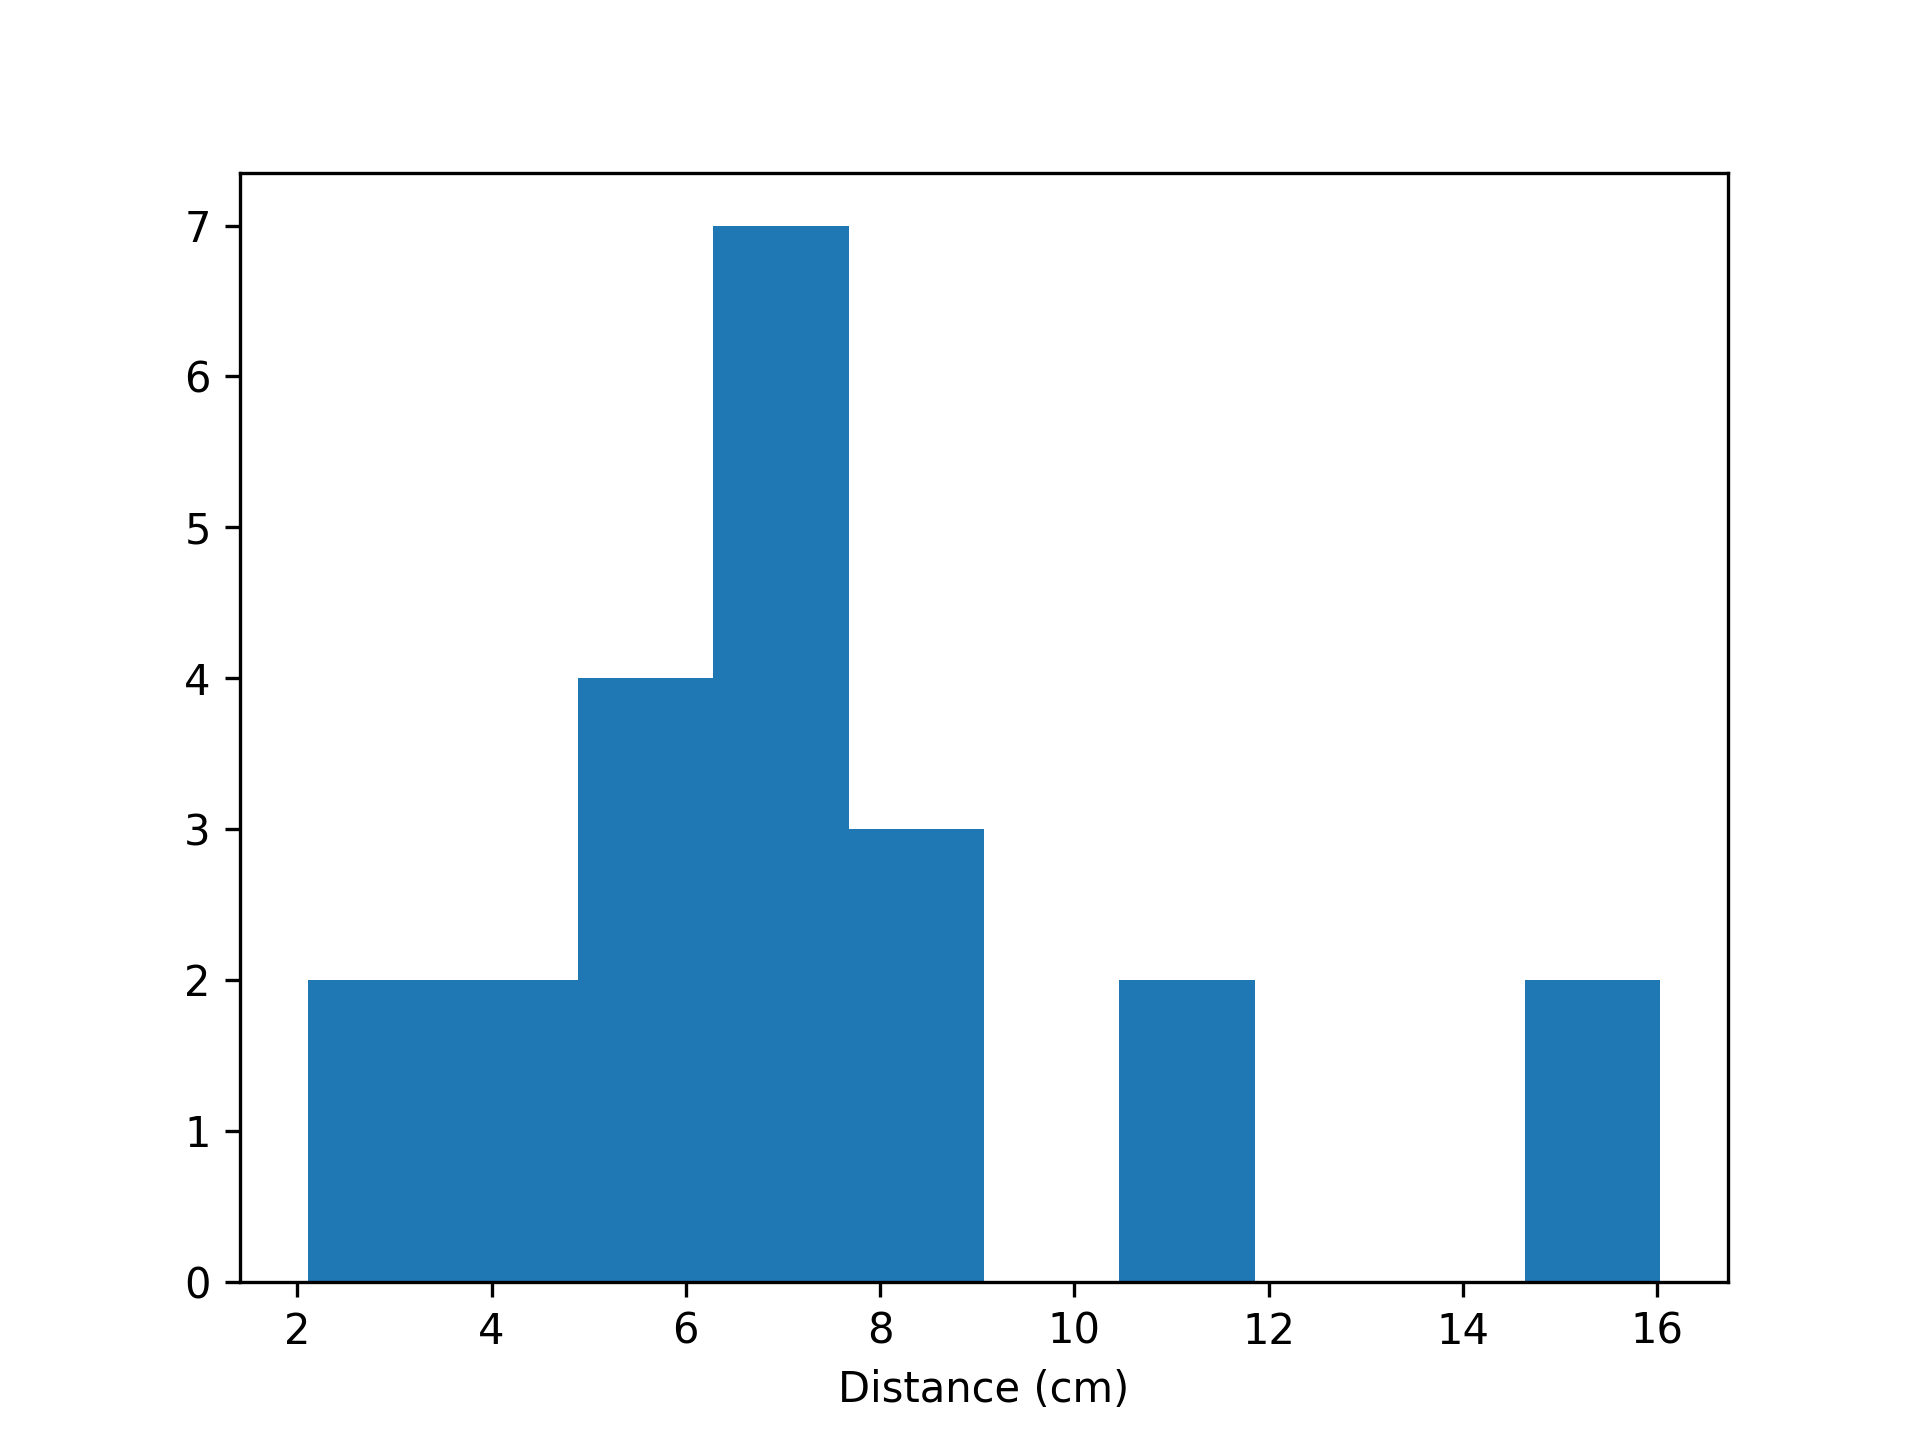
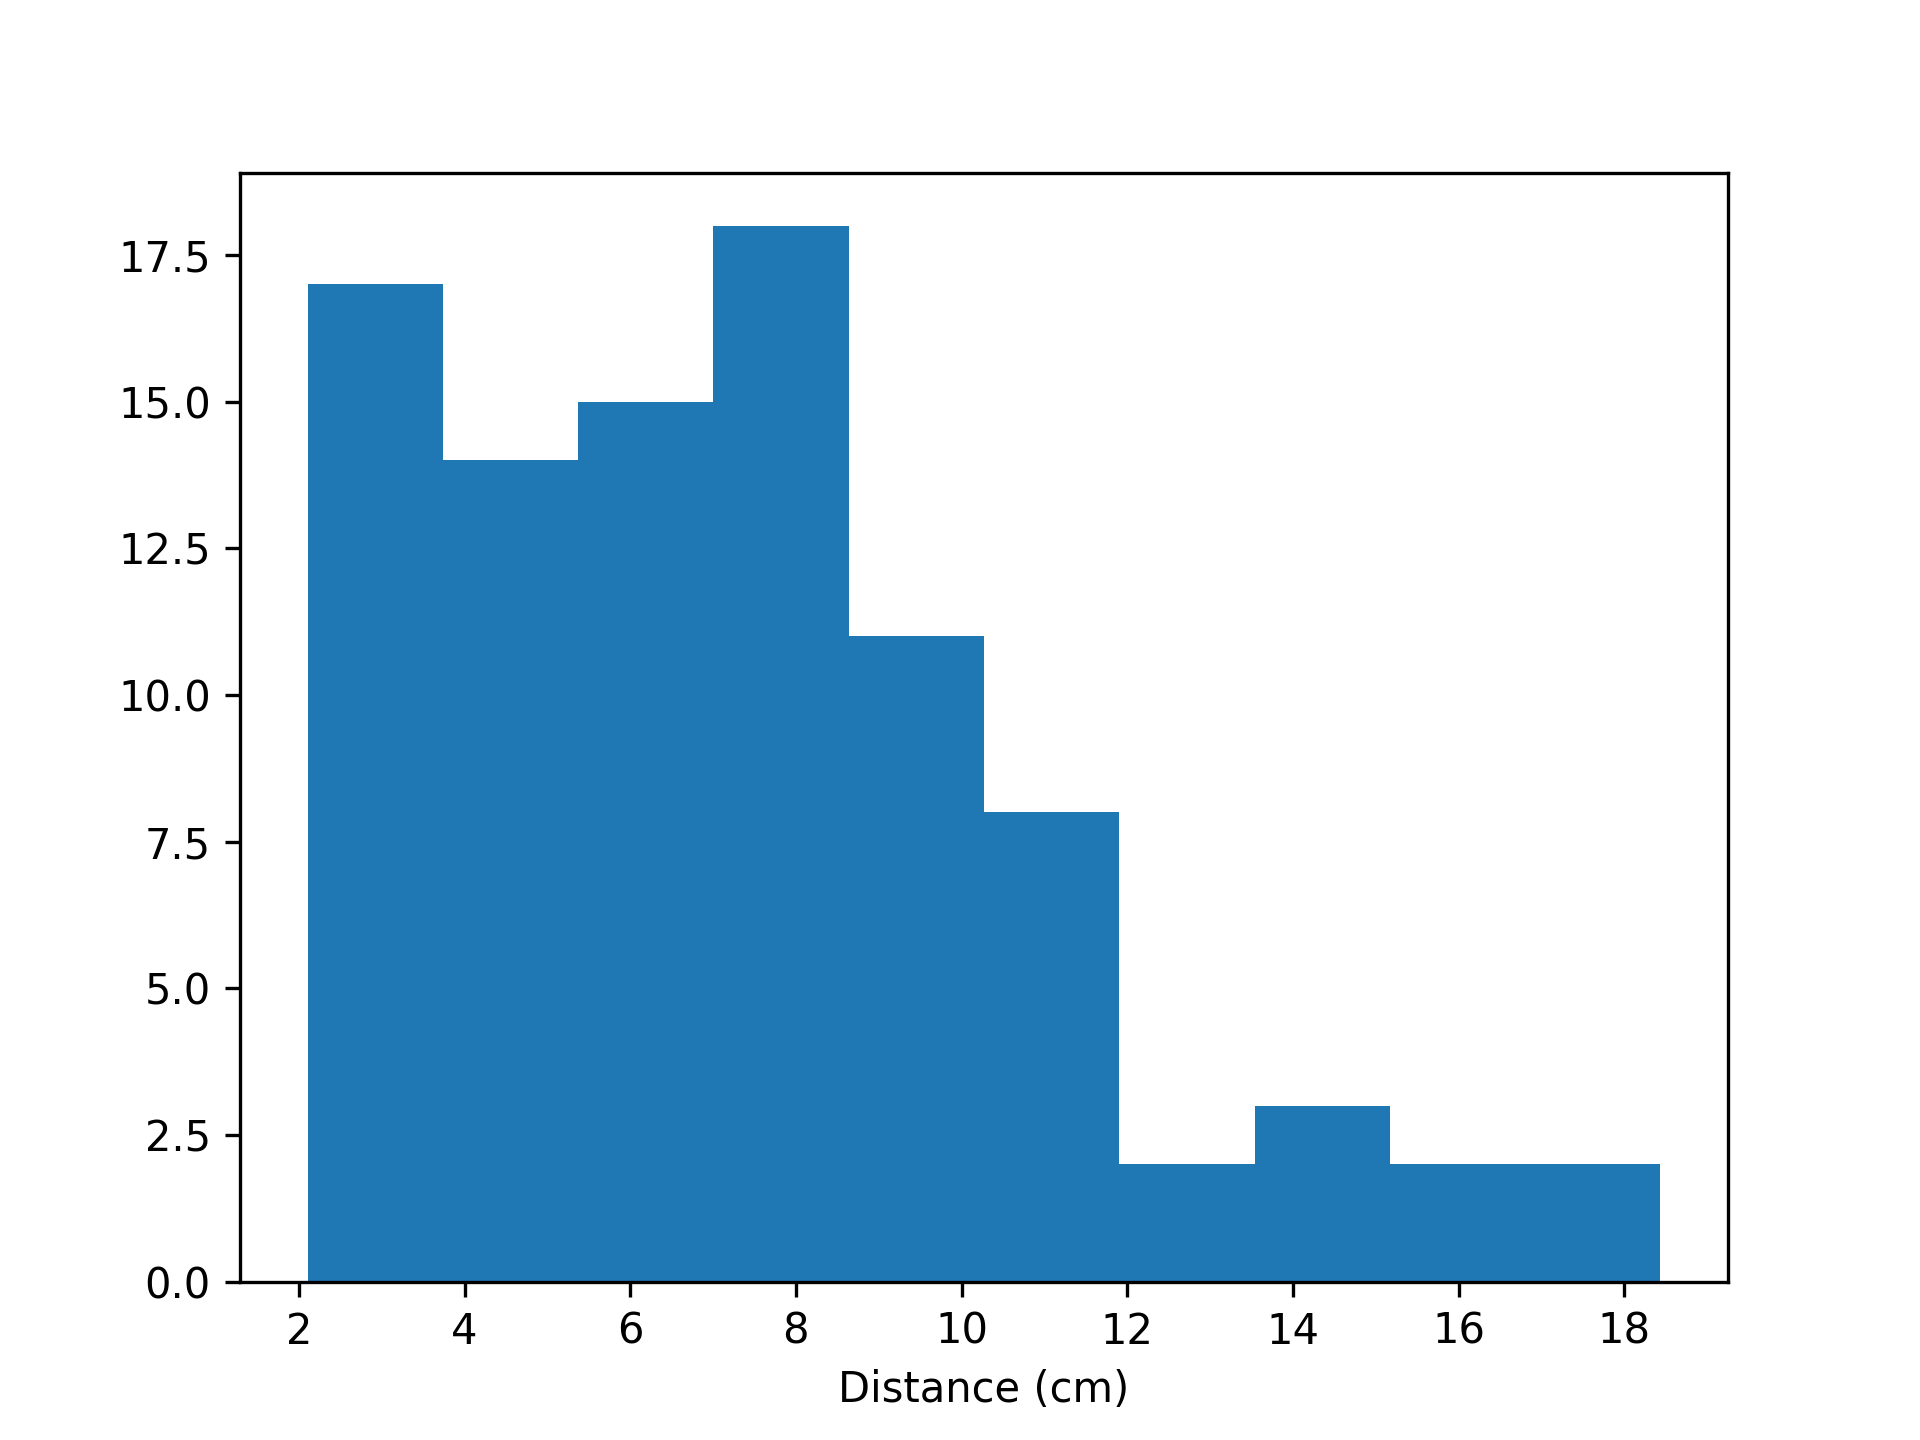
revert to intersaccade throwaway but default None

diff --git a/aopy/precondition/eye.py b/aopy/precondition/eye.py
@@ -109,8 +109,10 @@ def detect_saccades(eye_pos, samplerate, thr=None, num_sd=1.5, intersaccade_min=
         | **distance (nsaccade):** distance (same units as eye_pos) of each detected saccade
 
     '''
-    assert thr is None or (len(thr) == 2 and thr[0] > thr[1]), "Threshold must be in the form (positive thr, negative thr)"
-    assert intersaccade_min < max_saccade_duration, "Max saccade duration must be longer than the minimum intersaccade interval"
+    assert thr is None or (len(thr) == 2 and thr[0] > thr[1]), "Threshold must be in the form" 
+    " (positive thr, negative thr)"
+    assert (intersaccade_min is None) or intersaccade_min < max_saccade_duration, "Max saccade"
+    " duration must be longer than the minimum intersaccade interval"
     if samplerate != 100:
         print("Warning: this function works best with eye data that has been low-pass filtered below 30 Hz")
 
@@ -132,7 +134,10 @@ def detect_saccades(eye_pos, samplerate, thr=None, num_sd=1.5, intersaccade_min=
     onset = []
     duration = []
     distance = []
+    prev_offset = 0
     for t in saccade_onset_time:
+        if intersaccade_min and t < prev_offset + intersaccade_min:
+            continue # ignore saccades within intersaccade_min of the last saccade
         nearby_offset = np.where((saccade_offset_time >= t + min_saccade_duration) & 
                                  (saccade_offset_time < t + max_saccade_duration))[0]
         if len(nearby_offset):
@@ -144,30 +149,6 @@ def detect_saccades(eye_pos, samplerate, thr=None, num_sd=1.5, intersaccade_min=
                                eye_pos[int(offset_time*samplerate),:])
             ) # distance is the deviation of the saccade in space (in cm)
             prev_offset = offset_time
-    onset_ = np.array(onset)
-    duration_ = np.array(duration)
-    distance_ = np.array(distance)
-
-    # Enforce the intersaccade minimum
-    onset = []
-    duration = []
-    distance = []
-    offset = np.array([o + d for o, d in zip(onset_, duration_)])
-    intersaccade = np.insert(onset_[1:]-offset[:-1], 0, intersaccade_min)
-    for idx in range(len(onset_)):
-        if intersaccade[idx] < intersaccade_min and duration[-1] + duration_[idx] < max_saccade_duration:
-            # Saccade is part of previous one
-            duration[-1] += duration_[idx]
-            distance[-1] += distance_[idx]
-        elif len(duration) > 0 and duration[-1] + duration_[idx] >= max_saccade_duration:
-            # Saccade is too close but can't be part of this one, skip
-            pass
-        else:
-            # New saccade 
-            onset.append(onset_[idx])
-            duration.append(duration_[idx])
-            distance.append(distance_[idx])
-
     onset = np.array(onset)
     duration = np.array(duration)
     distance = np.array(distance)

diff --git a/tests/test_precondition.py b/tests/test_precondition.py
@@ -474,10 +474,10 @@ class EyeTests(unittest.TestCase):
         savefig(docs_dir, 'detect_saccades.png')
         plt.close()
 
-        self.assertTrue(np.all(duration < 0.15)) # max saccade duration
+        self.assertTrue(np.all(duration < 0.16)) # max saccade duration
+        self.assertTrue(np.all(duration > 0.015)) # min saccade duration
         offset = np.array([o + d for o, d in zip(onset, duration)])
-        print(onset[1:]-offset[:-1])
-        np.testing.assert_allclose(np.ones(len(offset)-1), onset[1:]-offset[:-1] > 0.02) # intersaccade min
+        self.assertTrue(np.any(onset[1:]-offset[:-1] <= 0.02)) # intersaccade min by default is not set
 
         plt.figure()
         plt.hist(1000*duration)
@@ -494,6 +494,11 @@ class EyeTests(unittest.TestCase):
         plt.ylabel('Distance (cm)')
         savefig(docs_dir, 'detect_saccades_scatter.png')
         plt.close()
+
+        onset, duration, distance = detect_saccades(le_data_filt, samplerate, intersaccade_min=0.02)
+        offset = np.array([o + d for o, d in zip(onset, duration)])
+        self.assertTrue(np.all(onset[1:]-offset[:-1] > 0.02)) # intersaccade min
+
 
 
 if __name__ == "__main__":
